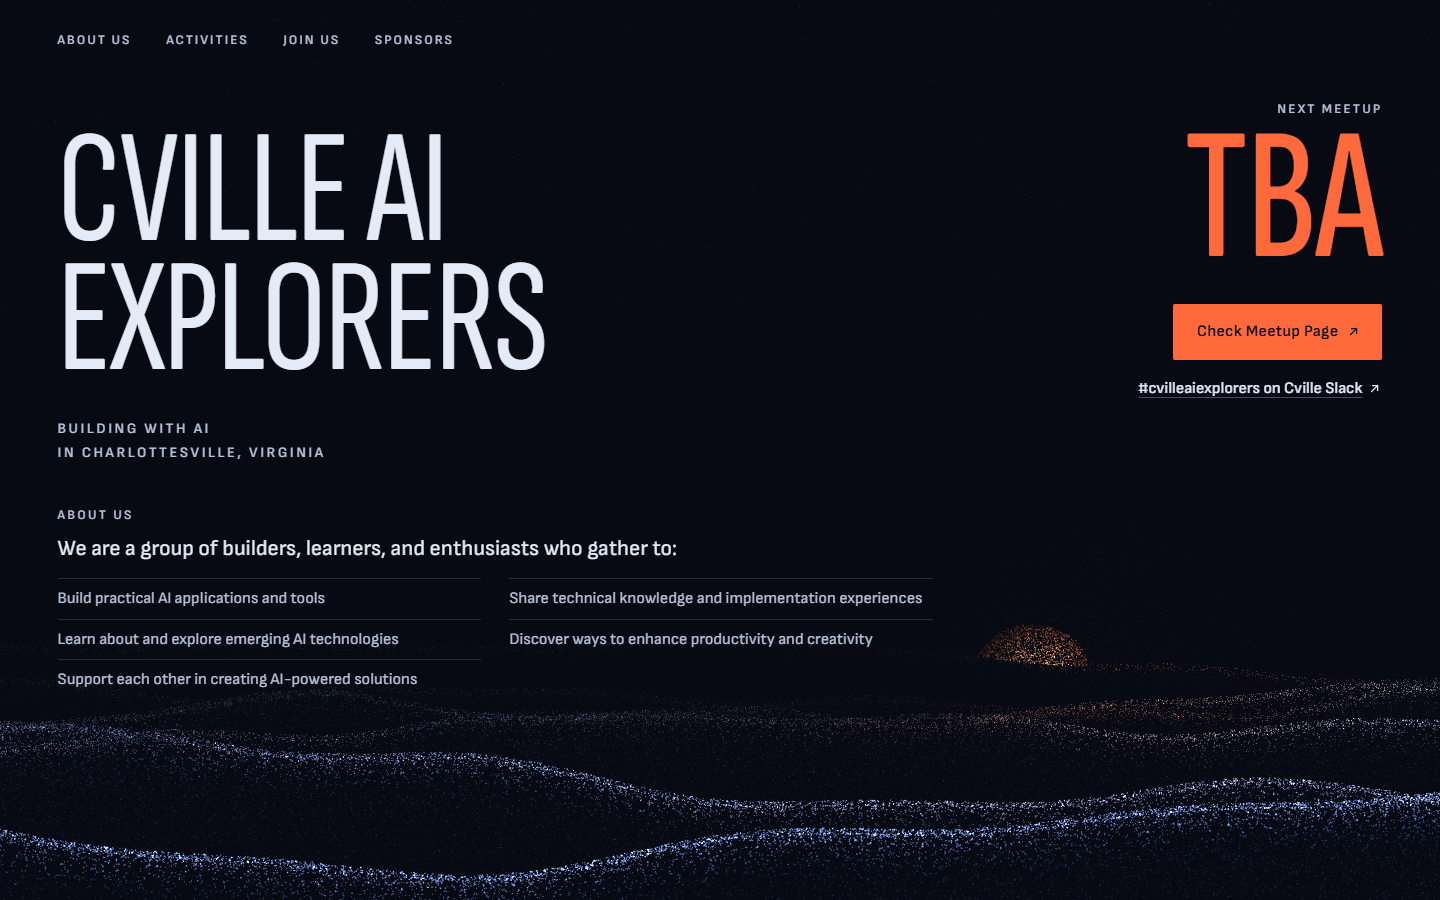
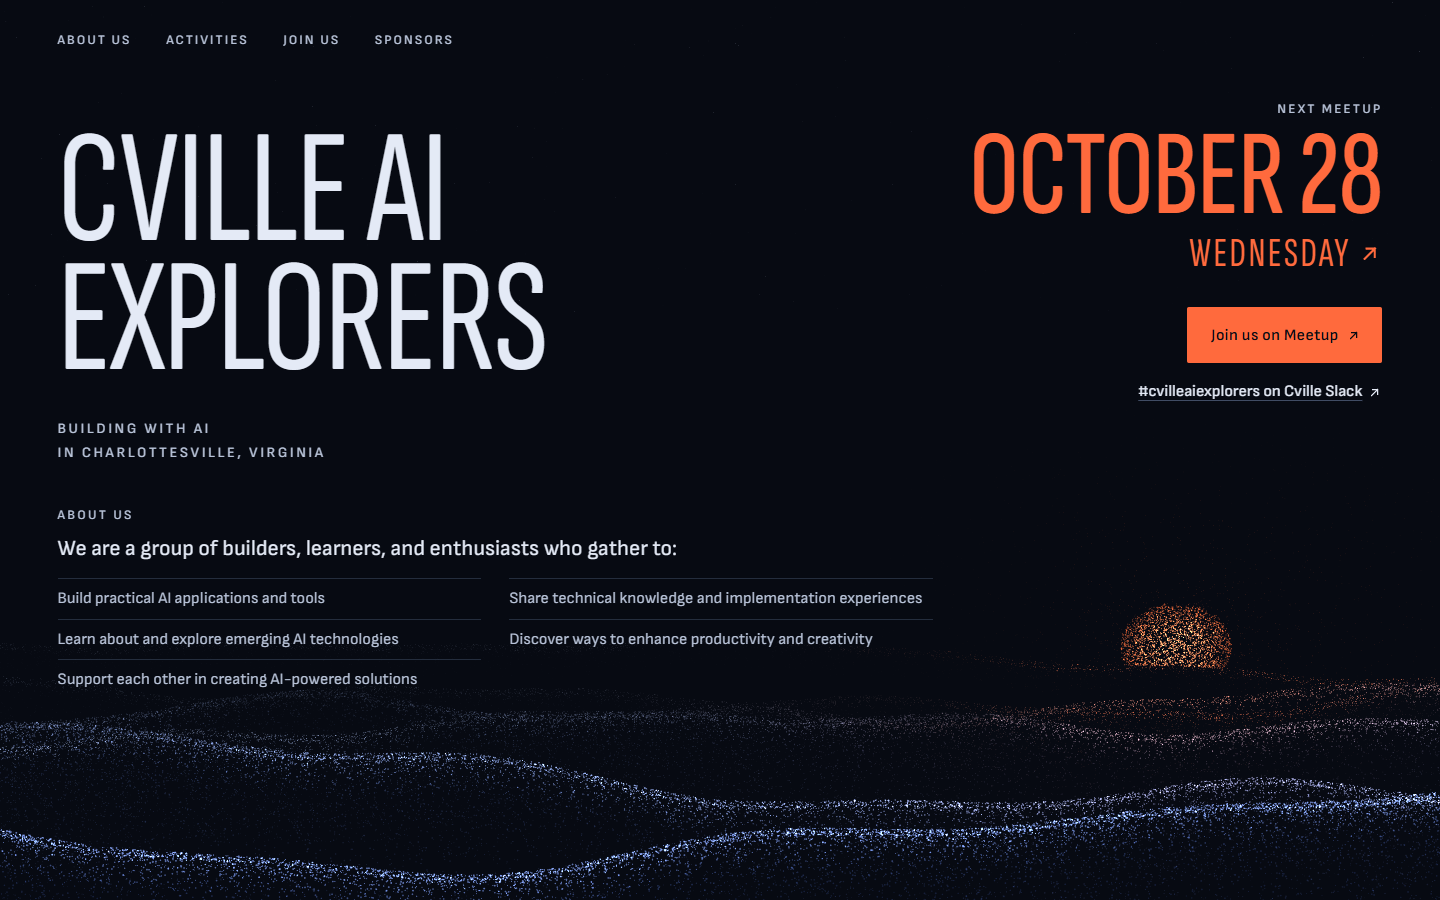
Allow Google Fonts in site builds, tidy Focus notes, date the Blue Ridge cover
Relaxes the site/ rule to allow free Google Fonts, drops the italic
source lines from Focus's organizers' notes, and recaptures Blue Ridge
at Dusk's cover with the next meetup filled in. Adds a .gitignore that
keeps local PLANNING/ folders out of the repo.

Changed region(s): [[0.0, 0.6533, 1.0, 1.0], [0.6562, 0.1244, 0.9688, 0.4667], [0.6562, 0.9956, 0.6875, 1.0]]

diff --git a/2026-09-design-bakeoff/showcase/teams/lane-b-codex-native/designs/focus/design-brief.md b/2026-09-design-bakeoff/showcase/teams/lane-b-codex-native/designs/focus/design-brief.md
@@ -8,9 +8,7 @@ Details expand on demand, and the cards scroll sideways on phones. Gentle motion
 
 ---
 
-## Observed on the deployed site, 2026-10-10 (organizers' notes)
-
-*Everything above the line is Sifan's. The notes below come from the organizers, who read the live site at [cville-ai-focus.sifanye-ghost.chatgpt.site](https://cville-ai-focus.sifanye-ghost.chatgpt.site) and its CSS and JavaScript, and from the [design notes](https://cville-ai-woven.sifanye-ghost.chatgpt.site/design-notes.html) Sifan published with an earlier version. The site is live, so the meetup content will have changed since then.*
+## Organizers' notes, 2026-10-10
 
 **Concept.** The hero art (`filament-knot.webp`) is an AI-generated abstraction of luminous strands knotted into a single form. According to Sifan's design notes, it refers to the Ix site's textile mill (1928–1999), now a neighborhood of art, work and community, which suggested "individual strands woven into a shared form." The notes also say the image is original, not a photo of the venue or an existing local artwork. The copy around it is spare: a short headline, "Stay curious. Build together.", with "together." in lime.
 

diff --git a/2026-09-design-bakeoff/showcase/teams/lane-b-codex-native/designs/focus/process-narrative.md b/2026-09-design-bakeoff/showcase/teams/lane-b-codex-native/designs/focus/process-narrative.md
@@ -8,9 +8,9 @@ Codex checked the mobile layout, interactions, and calendar error handling. It w
 
 ---
 
-## Context from Sifan's design notes, 2026-10-10 (organizers' notes)
+## Organizers' notes, 2026-10-10
 
-*Everything above the line is Sifan's. The notes below summarize the [design notes](https://cville-ai-woven.sifanye-ghost.chatgpt.site/design-notes.html) Sifan published with an earlier version of this design.*
+From Sifan's [design notes](https://cville-ai-woven.sifanye-ghost.chatgpt.site/design-notes.html):
 
 - **How it was made:** Codex did public-source research on the community, generated the original artwork and wrote custom HTML, CSS and JavaScript, with no framework. The finished site doesn't call an AI service when someone visits it.
 - **Where the direction came from:** the local reference, the Ix site's textile history. The notes credit that and a precise brief with giving the AI-assisted design something real to work with, and say visual polish still needed fact-checking, careful interaction design and testing on a phone.

diff --git a/2026-09-design-bakeoff/showcase/README.md b/2026-09-design-bakeoff/showcase/README.md
@@ -17,7 +17,7 @@ teams/<team-slug>/
     journey/                 the team's working files (optional)
 ```
 
-- **`site/`** holds the contents of the team's `build/` folder. It must work when served from any subpath: relative asset paths only, no requests to other domains.
+- **`site/`** holds the contents of the team's `build/` folder. It must work when served from any subpath, so asset paths are relative. Loading free Google Fonts is fine; otherwise the build makes no requests to other domains.
 - **`journey/`** holds working files the team handed in alongside the design, such as agent briefs, decision records, a design-system doc and screenshots. It has its own `README.md` listing them.
 - **Externally hosted designs** stay where their authors deployed them. They have a `url:` in the team card and no `site/` folder.
 - **Organizer additions** to a team's narrative or brief go below a horizontal rule, under a dated heading, so the team's own words stay separate.

diff --git a/2026-09-design-bakeoff/showcase/teams/lane-c-claude-impeccable/designs/blue-ridge-at-dusk/journey/README.md b/2026-09-design-bakeoff/showcase/teams/lane-c-claude-impeccable/designs/blue-ridge-at-dusk/journey/README.md
@@ -21,4 +21,4 @@ The Shader Portal quality-bar references came from the Impeccable catalog: https
 ## Filed 2026-10-10 (organizers' notes)
 
 - **Collected as handed in:** every file in the team's `demo-snapshot/journey/` is here. The decision page screenshots show Impeccable's interface and catalog artwork; whether the showcase displays them is decided when the showcase is built.
-- **Where the build went:** the team's `build/` folder is `../site/`, and `../cover.png` is `screenshots/desktop-fold.png`.
+- **Where the build went:** the team's `build/` folder is `../site/`, and `../cover.png` is the build's first screen at 1440×900 with the next meetup filled in (`?next=2026-10-28`).
